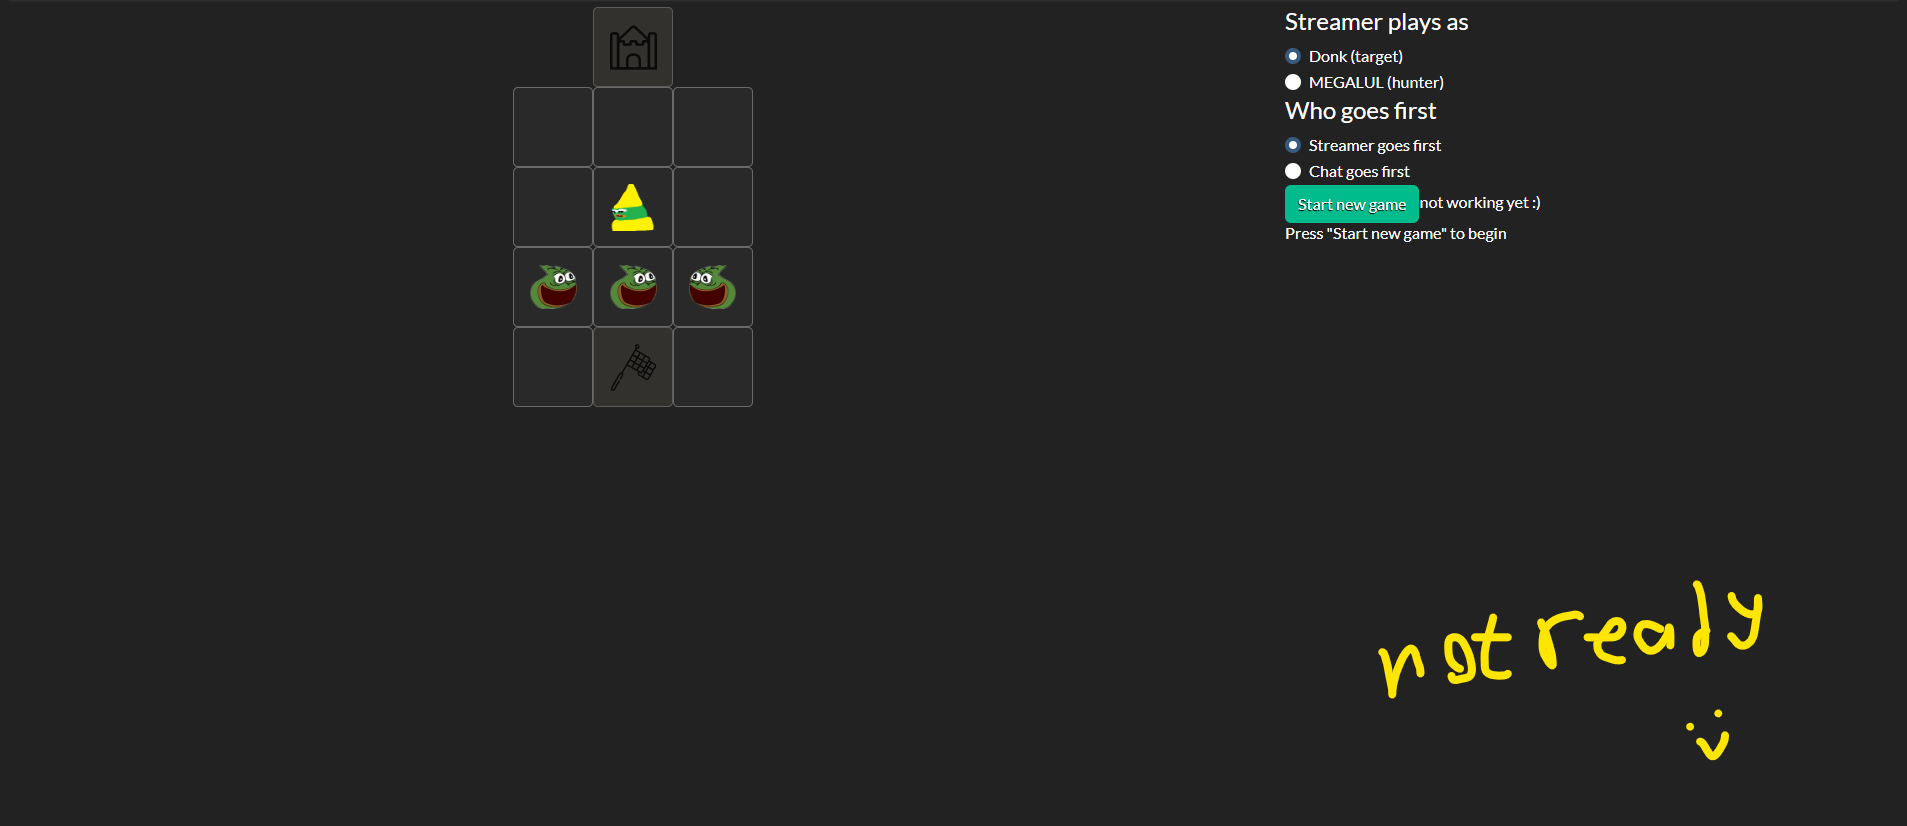
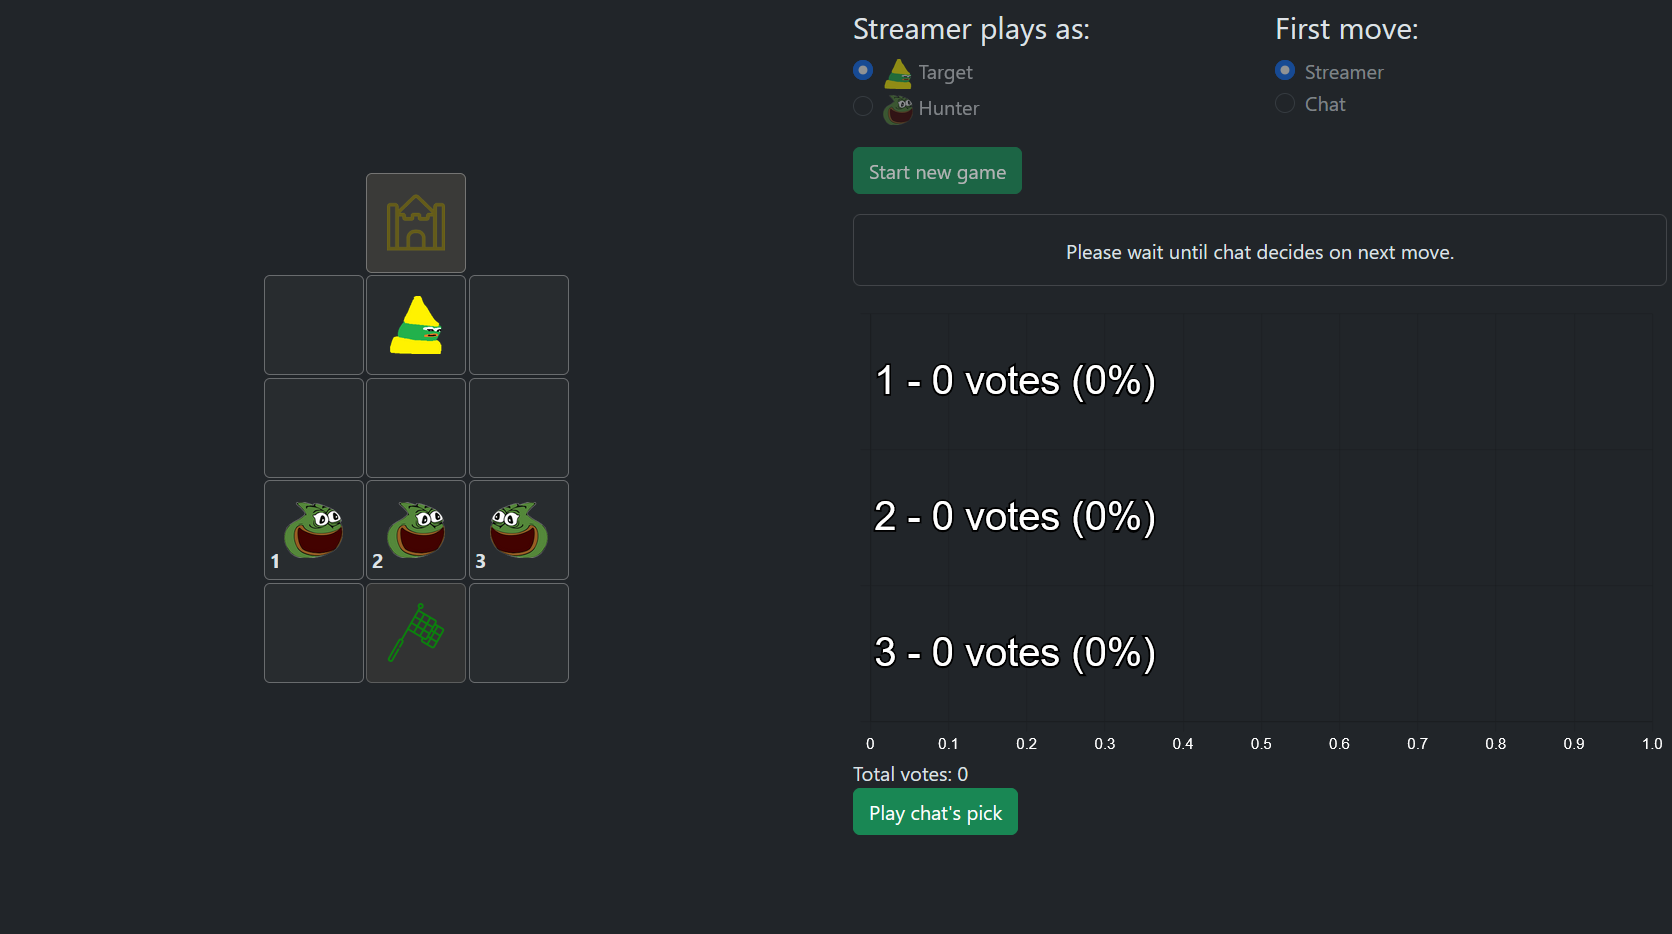
enable donkhunt, remove "wip" tag

diff --git a/games/donkhunt/index.html b/games/donkhunt/index.html
@@ -375,10 +375,10 @@
           </div>
           <div class="col">
             <div class="card h-100 bg-body-tertiary border-light">
-              <img src="/games/pics/dh.png" style="cursor: not-allowed" class="card-img-top" alt="Donk Hunt" />
+              <img src="/games/pics/dh.png" onclick="switchGame('dh')" class="card-img-top" alt="Donk Hunt" />
               <div class="card-body">
                 <h5 class="card-title">Donk Hunt</h5>
-                <p class="card-text">[WIP] Scary looking creatures are trying to trap their prey. Are you the hunter or the hunted one?</p>
+                <p class="card-text">Scary looking creatures are trying to trap their prey. Are you the hunter or the hunted one?</p>
               </div>
             </div>
           </div>
@@ -492,11 +492,11 @@
                   <div class="dh-field-cell dh-field-usable"></div>
                   <div class="dh-field-cell dh-field-wincondition"></div>
                   <div class="dh-field-cell dh-field-usable"></div>
+                </div>
               </div>
-            </div>
 
               <div class="dhgameResult" style="visibility: hidden">
-              <h4>Win condition will be explained here.</h4>
+                <h4>Win condition will be explained here.</h4>
               </div>
             </div>
           </div>
@@ -504,22 +504,22 @@
             <div class="row">
               <div class="col-6">
                 <h4>Streamer plays as:</h4>
-            <div class="form-check">
-              <input checked class="form-check-input dhsettings" type="radio" value="target" name="dhplayer" id="dhplayer1" />
-              <label class="form-check-label" for="dhplayer1"> <img width="24" height="24" src="/games/pics/donk.png" alt="Donk" class="icon" /> Target </label>
-            </div>
-            <div class="form-check">
-              <input class="form-check-input dhsettings" type="radio" value="hunter" name="dhplayer" id="dhplayer2" />
-              <label class="form-check-label" for="dhplayer2"> <img width="24" height="24" src="/games/pics/megalul.png" alt="MEGALUL" class="icon" /> Hunter </label>
-            </div>
+                <div class="form-check">
+                  <input checked class="form-check-input dhsettings" type="radio" value="target" name="dhplayer" id="dhplayer1" />
+                  <label class="form-check-label" for="dhplayer1"> <img width="24" height="24" src="/games/pics/donk.png" alt="Donk" class="icon" /> Target </label>
+                </div>
+                <div class="form-check">
+                  <input class="form-check-input dhsettings" type="radio" value="hunter" name="dhplayer" id="dhplayer2" />
+                  <label class="form-check-label" for="dhplayer2"> <img width="24" height="24" src="/games/pics/megalul.png" alt="MEGALUL" class="icon" /> Hunter </label>
+                </div>
               </div>
               <div class="col-6">
                 <h4>First move:</h4>
-            <div class="form-check">
+                <div class="form-check">
                   <input checked class="form-check-input dhsettings" type="radio" value="player" name="dhfirst" id="dhfirst1" />
                   <label class="form-check-label" for="dhfirst1">Streamer</label>
-            </div>
-            <div class="form-check">
+                </div>
+                <div class="form-check">
                   <input class="form-check-input dhsettings" type="radio" value="enemy" name="dhfirst" id="dhfirst2" />
                   <label class="form-check-label" for="dhfirst2">Chat</label>
                 </div>

diff --git a/games/arena/index.html b/games/arena/index.html
@@ -379,10 +379,10 @@
           </div>
           <div class="col">
             <div class="card h-100">
-              <img src="/games/pics/dh.png" style="cursor: not-allowed" class="card-img-top" alt="Donk Hunt" />
+              <img src="/games/pics/dh.png" onclick="switchGame('dh')" class="card-img-top" alt="Donk Hunt" />
               <div class="card-body">
                 <h5 class="card-title">Donk Hunt</h5>
-                <p class="card-text">[WIP] Scary looking creatures are trying to trap their prey. Are you the hunter or the hunted one?</p>
+                <p class="card-text">Scary looking creatures are trying to trap their prey. Are you the hunter or the hunted one?</p>
               </div>
             </div>
           </div>

diff --git a/games/connect4/index.html b/games/connect4/index.html
@@ -373,10 +373,10 @@
           </div>
           <div class="col">
             <div class="card h-100">
-              <img src="/games/pics/dh.png" style="cursor: not-allowed" class="card-img-top" alt="Donk Hunt" />
+              <img src="/games/pics/dh.png" onclick="switchGame('dh')" class="card-img-top" alt="Donk Hunt" />
               <div class="card-body">
                 <h5 class="card-title">Donk Hunt</h5>
-                <p class="card-text">[WIP] Scary looking creatures are trying to trap their prey. Are you the hunter or the hunted one?</p>
+                <p class="card-text">Scary looking creatures are trying to trap their prey. Are you the hunter or the hunted one?</p>
               </div>
             </div>
           </div>

diff --git a/games/draw/index.html b/games/draw/index.html
@@ -472,10 +472,10 @@
           </div>
           <div class="col">
             <div class="card h-100">
-              <img src="/games/pics/dh.png" style="cursor: not-allowed" class="card-img-top" alt="Donk Hunt" />
+              <img src="/games/pics/dh.png" onclick="switchGame('dh')" class="card-img-top" alt="Donk Hunt" />
               <div class="card-body">
                 <h5 class="card-title">Donk Hunt</h5>
-                <p class="card-text">[WIP] Scary looking creatures are trying to trap their prey. Are you the hunter or the hunted one?</p>
+                <p class="card-text">Scary looking creatures are trying to trap their prey. Are you the hunter or the hunted one?</p>
               </div>
             </div>
           </div>

diff --git a/games/emotes/index.html b/games/emotes/index.html
@@ -374,10 +374,10 @@
           </div>
           <div class="col">
             <div class="card h-100">
-              <img src="/games/pics/dh.png" style="cursor: not-allowed" class="card-img-top" alt="Donk Hunt" />
+              <img src="/games/pics/dh.png" onclick="switchGame('dh')" class="card-img-top" alt="Donk Hunt" />
               <div class="card-body">
                 <h5 class="card-title">Donk Hunt</h5>
-                <p class="card-text">[WIP] Scary looking creatures are trying to trap their prey. Are you the hunter or the hunted one?</p>
+                <p class="card-text">Scary looking creatures are trying to trap their prey. Are you the hunter or the hunted one?</p>
               </div>
             </div>
           </div>

diff --git a/games/index.html b/games/index.html
@@ -353,10 +353,10 @@
           </div>
           <div class="col">
             <div class="card h-100">
-              <img src="/games/pics/dh.png" style="cursor: not-allowed" class="card-img-top" alt="Donk Hunt" />
+              <img src="/games/pics/dh.png" onclick="switchGame('dh')" class="card-img-top" alt="Donk Hunt" />
               <div class="card-body">
                 <h5 class="card-title">Donk Hunt</h5>
-                <p class="card-text">[WIP] Scary looking creatures are trying to trap their prey. Are you the hunter or the hunted one?</p>
+                <p class="card-text">Scary looking creatures are trying to trap their prey. Are you the hunter or the hunted one?</p>
               </div>
             </div>
           </div>

diff --git a/games/nim/index.html b/games/nim/index.html
@@ -372,10 +372,10 @@
           </div>
           <div class="col">
             <div class="card h-100">
-              <img src="/games/pics/dh.png" style="cursor: not-allowed" class="card-img-top" alt="Donk Hunt" />
+              <img src="/games/pics/dh.png" onclick="switchGame('dh')" class="card-img-top" alt="Donk Hunt" />
               <div class="card-body">
                 <h5 class="card-title">Donk Hunt</h5>
-                <p class="card-text">[WIP] Scary looking creatures are trying to trap their prey. Are you the hunter or the hunted one?</p>
+                <p class="card-text">Scary looking creatures are trying to trap their prey. Are you the hunter or the hunted one?</p>
               </div>
             </div>
           </div>

diff --git a/games/shapes/index.html b/games/shapes/index.html
@@ -373,10 +373,10 @@
           </div>
           <div class="col">
             <div class="card h-100">
-              <img src="/games/pics/dh.png" style="cursor: not-allowed" class="card-img-top" alt="Donk Hunt" />
+              <img src="/games/pics/dh.png" onclick="switchGame('dh')" class="card-img-top" alt="Donk Hunt" />
               <div class="card-body">
                 <h5 class="card-title">Donk Hunt</h5>
-                <p class="card-text">[WIP] Scary looking creatures are trying to trap their prey. Are you the hunter or the hunted one?</p>
+                <p class="card-text">Scary looking creatures are trying to trap their prey. Are you the hunter or the hunted one?</p>
               </div>
             </div>
           </div>

diff --git a/games/tictactoe/index.html b/games/tictactoe/index.html
@@ -373,10 +373,10 @@
           </div>
           <div class="col">
             <div class="card h-100">
-              <img src="/games/pics/dh.png" style="cursor: not-allowed" class="card-img-top" alt="Donk Hunt" />
+              <img src="/games/pics/dh.png" onclick="switchGame('dh')" class="card-img-top" alt="Donk Hunt" />
               <div class="card-body">
                 <h5 class="card-title">Donk Hunt</h5>
-                <p class="card-text">[WIP] Scary looking creatures are trying to trap their prey. Are you the hunter or the hunted one?</p>
+                <p class="card-text">Scary looking creatures are trying to trap their prey. Are you the hunter or the hunted one?</p>
               </div>
             </div>
           </div>

diff --git a/games/wordle/index.html b/games/wordle/index.html
@@ -376,10 +376,10 @@
           </div>
           <div class="col">
             <div class="card h-100">
-              <img src="/games/pics/dh.png" style="cursor: not-allowed" class="card-img-top" alt="Donk Hunt" />
+              <img src="/games/pics/dh.png" onclick="switchGame('dh')" class="card-img-top" alt="Donk Hunt" />
               <div class="card-body">
                 <h5 class="card-title">Donk Hunt</h5>
-                <p class="card-text">[WIP] Scary looking creatures are trying to trap their prey. Are you the hunter or the hunted one?</p>
+                <p class="card-text">Scary looking creatures are trying to trap their prey. Are you the hunter or the hunted one?</p>
               </div>
             </div>
           </div>
